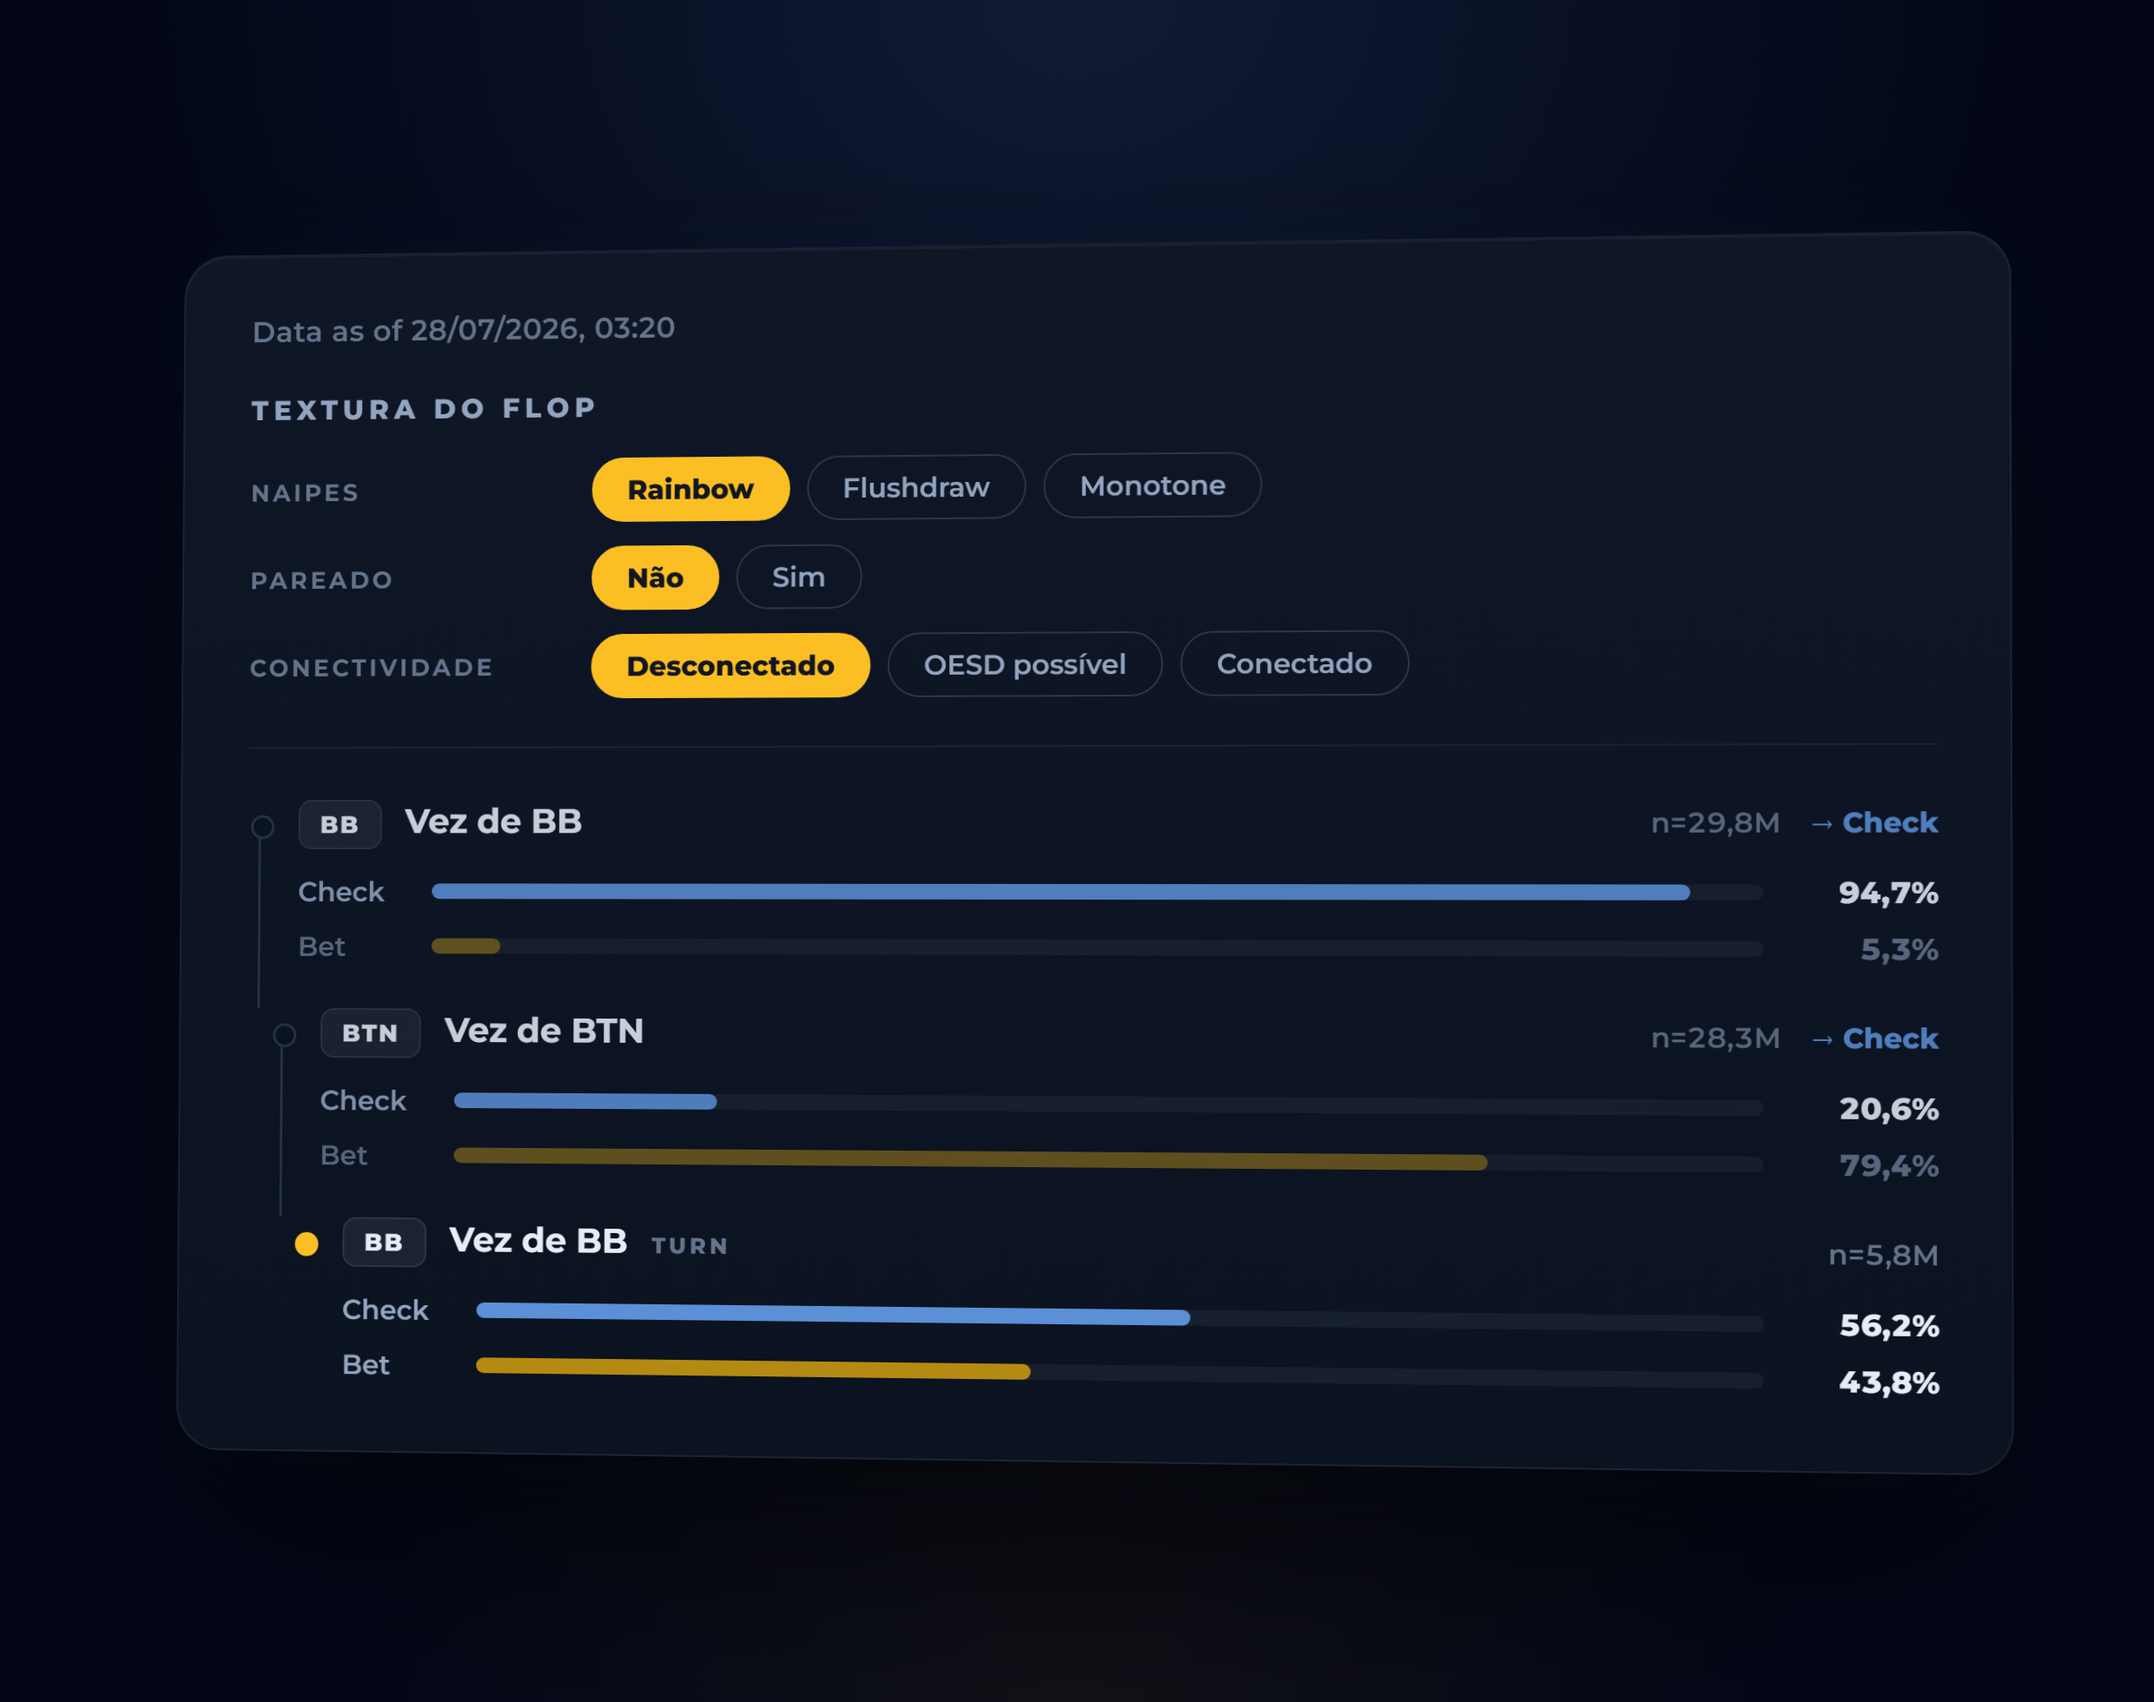
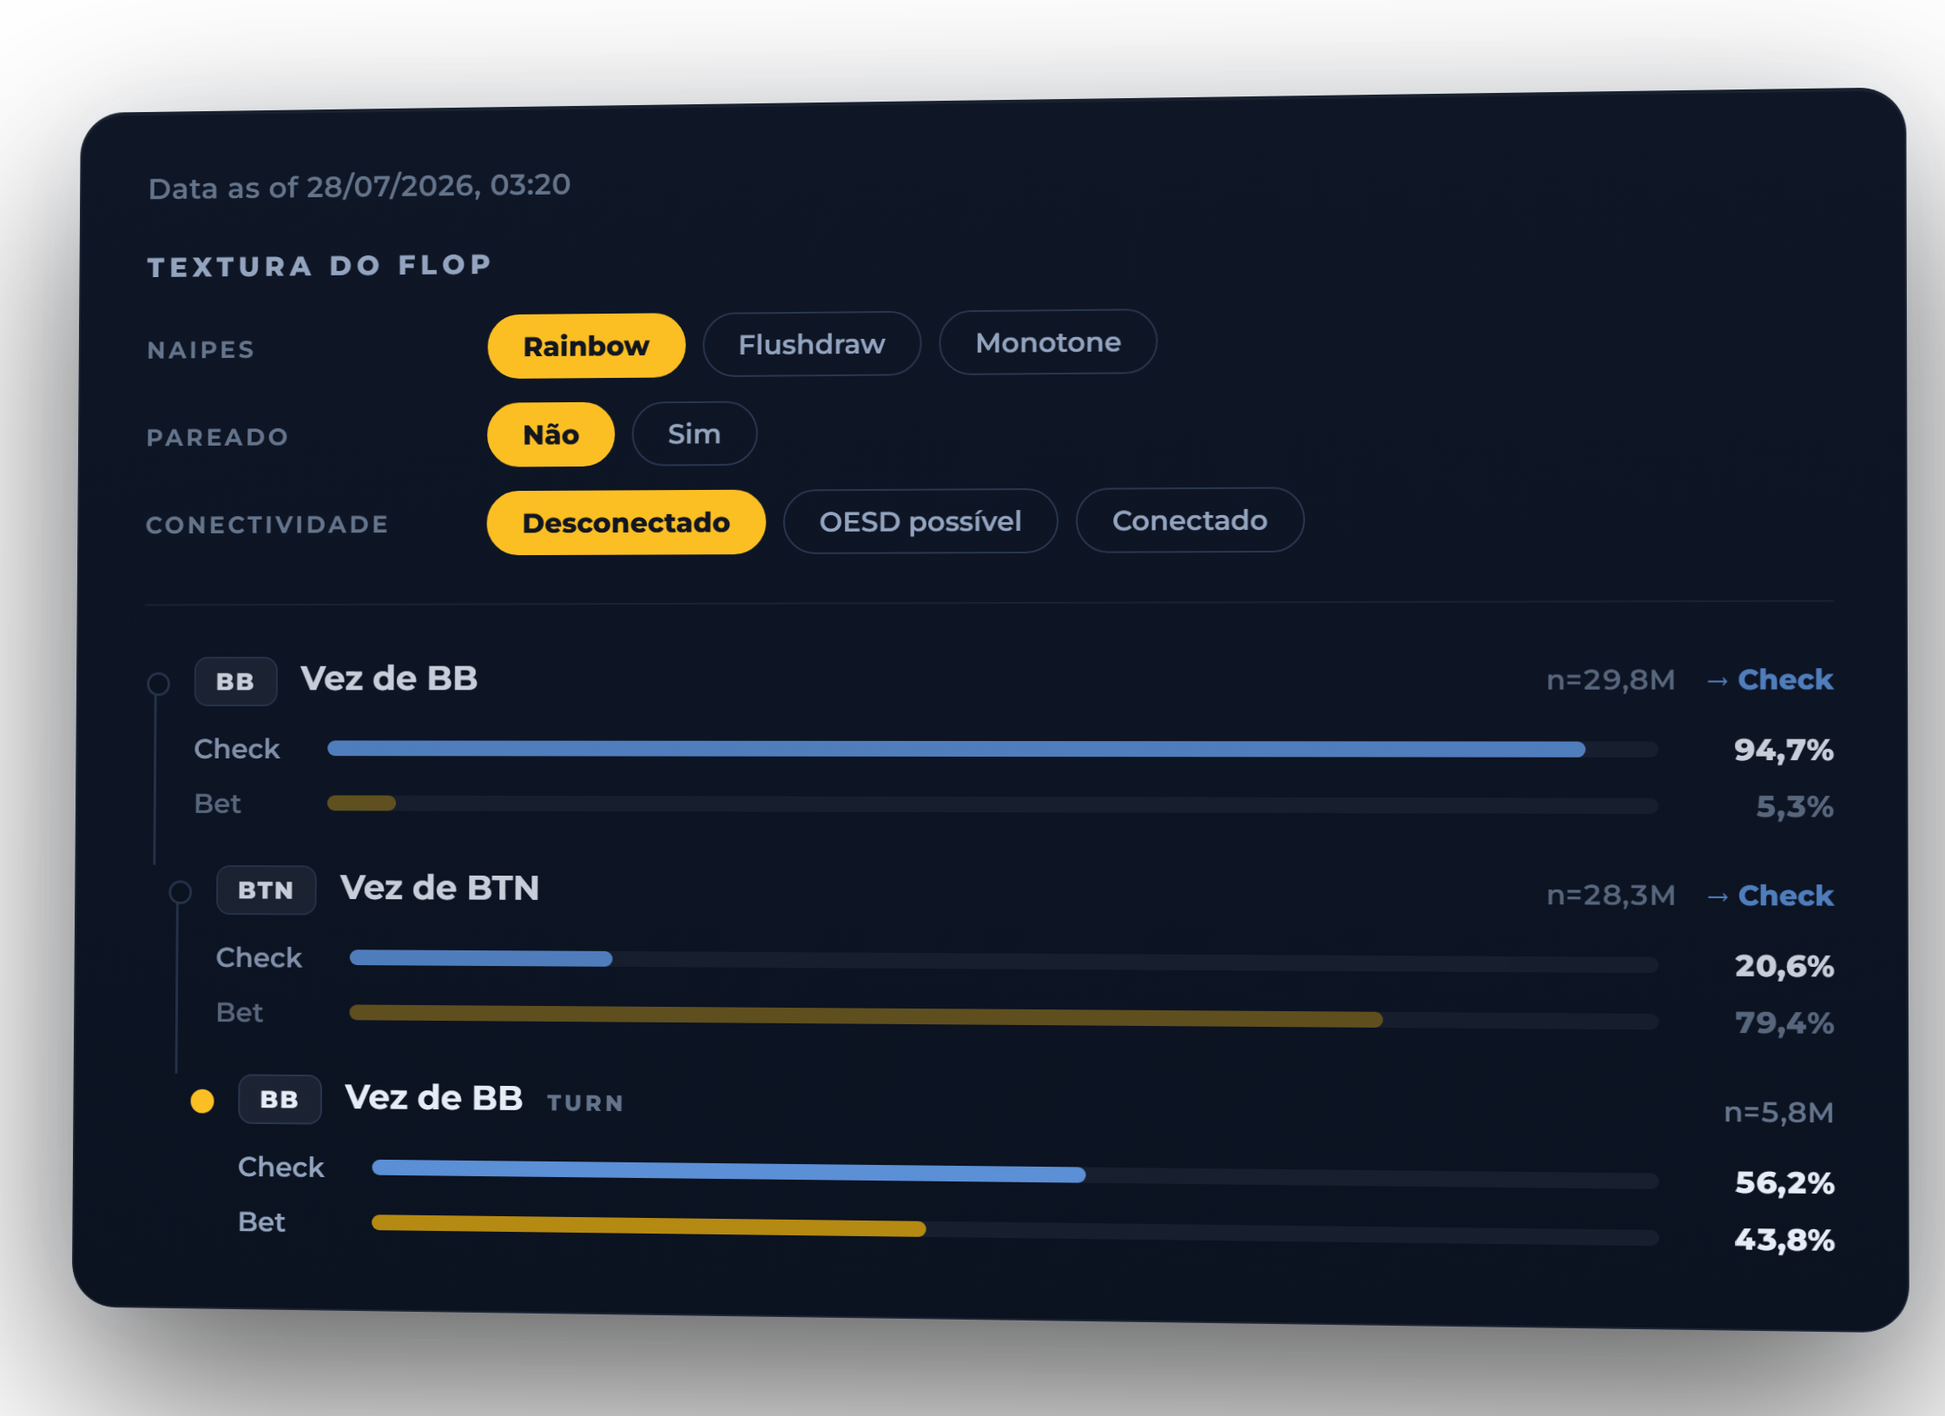
feat(posts): lancamento do Node-by-Node (EN) + versao EN do mockup
Post: content/posts/node-by-node-launch/ (arte 1080x1350 + copy EN-first, PT junto).
Headline 'Follow the line, node by node' com o mockup EN dentro.

Mockup ganhou variantes pelo MESMO arquivo (nao duplicado, pra PT e EN nao
sairem do sincronismo quando a spec mudar):
  ?lang=en  -> rotulos EN (FLOP TEXTURE / SUITS / PAIRED / CONNECTEDNESS /
               No-Yes / Disconnected / BB to act) e decimais com PONTO
               (94,7% -> 94.7%), conforme convencao da casa.
               Jargao que nao traduz: Rainbow, Flushdraw, Monotone, OESD,
               Check, Bet, TURN, BB, BTN.
  ?bare=1   -> fundo transparente.

Dois ajustes vindos de olhar o render:
- canvas do mockup apertado ao painel (1240x980 -> 1120x815): o asset entra
  DENTRO de molduras, entao margem propria virava moldura duplicada
- com o fundo transparente o post deixou de mostrar 3 retangulos aninhados;
  frameH 775 -> 655 porque o rodape (aurapoker.com + 18+) estava cortado

Numeros reais (dono, 27/07) — nao marcados como ilustrativo.

diff --git a/instagram/templates/mockup-node.html b/instagram/templates/mockup-node.html
@@ -26,7 +26,9 @@
   --check:#5B8FD6; --bet:#B58A12;
 }
 *{margin:0;padding:0;box-sizing:border-box}
-html,body{width:1240px;height:980px;overflow:hidden}
+/* canvas justo ao painel: o asset e reusado DENTRO de molduras (posts/reels),
+   entao margem propria vira moldura duplicada. */
+html,body{width:1120px;height:815px;overflow:hidden}
 body{font-family:"Montserrat","Segoe UI",sans-serif;background:
   radial-gradient(900px 700px at 50% 0%, rgba(34,53,89,0.45), transparent 62%),
   radial-gradient(700px 600px at 50% 100%, rgba(212,164,24,0.07), transparent 60%), var(--bg);
@@ -159,5 +161,35 @@ body{font-family:"Montserrat","Segoe UI",sans-serif;background:
 
   </div>
 </div>
+
+<script>
+/* Versão EN via ?lang=en — parametrizado em vez de arquivo duplicado, pra PT e
+   EN não saírem do sincronismo quando a spec mudar.
+   Jargão que NÃO traduz (regra da casa): Rainbow, Flushdraw, Monotone, OESD,
+   Check, Bet, TURN, BB, BTN. */
+(function(){
+  const q = new URLSearchParams(location.search);
+  /* ?bare=1 => fundo transparente. O asset e reusado DENTRO de molduras
+     (posts/reels); com fundo proprio aparecem 3 retangulos aninhados. */
+  if (q.get('bare')) document.body.style.background = 'transparent';
+  if (q.get('lang') !== 'en') return;
+  const MAP = {
+    "TEXTURA DO FLOP":"FLOP TEXTURE",
+    "NAIPES":"SUITS", "PAREADO":"PAIRED", "CONECTIVIDADE":"CONNECTEDNESS",
+    "Não":"No", "Sim":"Yes",
+    "Desconectado":"Disconnected", "OESD possível":"OESD possible", "Conectado":"Connected",
+    "Vez de BB":"BB to act", "Vez de BTN":"BTN to act",
+  };
+  document.querySelectorAll(".tex .head,.tkey,.chip,.turnof").forEach(el=>{
+    const t = el.textContent.trim();
+    if (MAP[t] !== undefined) el.textContent = MAP[t];
+  });
+  // decimal: PT usa vírgula, EN usa ponto (94,7% -> 94.7% · n=29,8M -> n=29.8M)
+  document.querySelectorAll(".pct,.n").forEach(el=>{
+    el.textContent = el.textContent.replace(/(\d),(\d)/g, "$1.$2");
+  });
+  document.documentElement.lang = "en";
+})();
+</script>
 </body>
 </html>

diff --git a/instagram/templates/deck.js b/instagram/templates/deck.js
@@ -385,6 +385,17 @@ window.DECK = {
     footerNote: "aura.poker · real product", handle: "@aurapokeranalytics",
   },
 
+  /* POST DE LANCAMENTO — modulo Node-by-Node (EN). Usa o mockup RECRIADO
+     (mockup-node.html ?lang=en), nao captura de tela. Numeros reais
+     (confirmado pelo dono 27/07) — nao marcar ilustrativo. */
+  "shot-node-launch": {
+    layout: "hero", kicker: "New in Aura · Node-by-Node",
+    titleHtml: "Follow the line, <em>node by node</em>",
+    shotSrc: "shots/mockup-node-by-node-en.png", shotBg: "#0B1120", frameH: 655, badge: "",
+    caption: "At every node: whose turn it is, what the field does, and the sample behind it. Filtered by flop texture.",
+    footerNote: "aurapoker.com · real product", handle: "@aurapokeranalytics",
+  },
+
   /* POST: distribuicao de tamanhos. Dado real da coluna Total (aura-total2):
      ~20% 9,3% (137K) · 33% 19,5% (286K) · 42% 24,5% (360K) · 55% 16,5% (242K)
      · ~75% 16,6% (244K) · overpot 13,6% (200K). Soma 100%, ~1,47M maos — que

diff --git a/content/posts/node-by-node-launch/copy.md b/content/posts/node-by-node-launch/copy.md
@@ -1,0 +1,48 @@
+# node-by-node-launch · lançamento de módulo · 4:5 · **EN-first**
+uso: paid-intl + organico (se o feed for bilíngue) · números: REAIS (módulo Node-by-Node)
+arte: mockup RECRIADO (`mockup-node.html ?lang=en&bare=1`), não é captura de tela
+
+## EN  ← principal
+New in Aura: **Node-by-Node**. 🌳
+
+Walk the field's decision tree one node at a time. At every node you see whose turn it is, what the population actually does, and the sample behind it.
+
+In the example: BB checks **94.7%** of the time (n=29.8M). BTN then bets **79.4%** (n=28.3M). Follow the check branch instead and on the turn the BB sits at 56.2% / 43.8% — over 5.8M hands.
+
+Filter by flop texture — suits, paired, connectedness — and the whole tree recalculates for that exact board.
+
+It's not a solver: there's no equilibrium here. It's what the field does, measured.
+
+Start free, with a preview of every module. Link in bio.
+
+## PT
+Novo na Aura: **Node-by-Node**. 🌳
+
+Percorra a árvore de decisão do field, nó por nó. Em cada nó você vê de quem é a vez, o que a população realmente faz e a amostra por trás daquilo.
+
+No exemplo: o BB dá check **94,7%** das vezes (n=29,8M). O BTN então aposta **79,4%** (n=28,3M). Siga o ramo do check e, no turn, o BB fica em 56,2% / 43,8% — sobre 5,8M de mãos.
+
+Filtre por textura do flop — naipes, pareado, conectividade — e a árvore inteira recalcula pra aquele board exato.
+
+Não é solver: aqui não tem equilíbrio. É o que o field faz, medido.
+
+Começa de graça, com preview de cada módulo. Link na bio.
+
+#poker #mtt #pokerstrategy #tournamentpoker #pokertraining #pokerbrasil #pokeronline #estudodepoker #mttpoker #pokertips
+18+ · poker é jogo de habilidade e estudo
+
+---
+## Notas de produção
+- **Mockup recriado, não capturado** — `instagram/templates/mockup-node.html`, renderizado a 2×.
+  Duas variantes do mesmo arquivo (não são arquivos separados, pra não saírem do sincronismo):
+  - `shots/mockup-node-by-node.png` — PT
+  - `shots/mockup-node-by-node-en.png` — EN (`?lang=en`)
+  - `?bare=1` = fundo transparente. **Use sempre `bare` quando o asset entrar dentro de uma
+    moldura** — com fundo próprio aparecem três retângulos aninhados no post.
+- **Decimais:** o EN converte vírgula → ponto automaticamente (94,7% → 94.7%), seguindo a
+  convenção da casa. Jargão que não traduz: Rainbow, Flushdraw, Monotone, OESD, Check, Bet, TURN.
+- **Números são REAIS** (confirmado pelo dono, 27/07) — não marcar como ilustrativo. Node-by-Node
+  saiu de "dormente" no gabarito no mesmo dia (`product-truth-aura.md` §3 e §9).
+- **Compliance:** ferramenta de estudo · zero promessa de lucro/EV/winrate · todo número com
+  amostra (`n=` visível na própria arte) · "solver" citado como categoria, nunca marca · 18+ ·
+  sem dinheiro/fichas/luxo.
